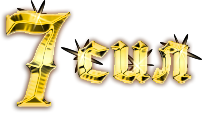
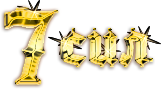
Доделка

Changed region(s): [[0.2795, 0.2921, 1.0, 0.7865], [0.0, 0.0, 0.3727, 0.9663]]

diff --git a/888/css/styles.min.css b/888/css/styles.min.css
@@ -1,2 +1,2 @@
-:-webkit-input-placeholder{color:#667;opacity:1}:-moz-placeholder{color:#667;opacity:1}::-moz-placeholder{color:#667;opacity:1}:-ms-input-placeholder{color:#667;opacity:1}html{overflow:hidden}body{font-family:Arial}.btn{width:320px;max-width:90%;height:68px;text-transform:uppercase;border:none;background:0 0}.main-screen{background-image:url(img/main_bg.jpg);height:100vh;display:flex;align-items:center;justify-content:center}.kart{width:1057px;height:840px;margin:0 auto;padding-top:85px;background-position:center center;background-image:url(img/bg.png)}.row{display:flex;align-items:center;justify-content:space-between;padding:2px 0}.ger{background-image:url(img/ger.png);background-position:88px 0;width:89px;height:152px}.ger:hover{background-position:-9px 1px;cursor:pointer}.ger_deg{-webkit-transform:rotate(-45deg);transform:rotate(-45deg)}.ru{background-image:url(img/ru.png);background-position:188px 0;width:193px;height:144px}.ru:hover{background-position:-9px 1px;cursor:pointer}.yap{background-image:url(img/yap.png);background-position:137px 0;width:139px;height:156px}.yap:hover{background-position:-11px 1px;cursor:pointer}.yap_deg{-webkit-transform:rotate(45deg);transform:rotate(45deg)}.por{background-image:url(img/por.png);background-position:111px 0;width:118px;height:184px}.por:hover{background-position:-10px 0;cursor:pointer}.por_deg{-webkit-transform:rotate(-90deg);transform:rotate(-90deg)}.chi{background-image:url(img/chi.png);background-position:169px 0;width:180px;height:143px}.chi:hover{background-position:-13px -1px;cursor:pointer}.chi_deg{-webkit-transform:rotate(90deg);transform:rotate(90deg)}.iz{background-image:url(img/iz.png);background-position:117px 0;width:118px;height:158px}.iz:hover{background-position:-17px 0;cursor:pointer}.iz_deg{-webkit-transform:rotate(-135deg);transform:rotate(-135deg)}.ben{background-image:url(img/ben.png);background-position:134px 0;width:140px;height:138px}.ben:hover{background-position:-11px 1px;cursor:pointer}.ben_deg{-webkit-transform:rotate(180deg);transform:rotate(180deg)}.tay{background-image:url(img/tay.png);background-position:117px 0;width:126px;height:173px}.tay:hover{background-position:-8px 1px;cursor:pointer}.tay_deg{-webkit-transform:rotate(135deg);transform:rotate(135deg)}.compas{width:193px;height:192px;display:flex;align-items:center;justify-content:center;background-repeat:no-repeat;background-image:url(img/compas.png)}.strel{transition:all .5s}.modal{top:50%;margin-top:-190px;position:fixed;width:640px;height:380px;left:50%;margin-left:-300px;background-color:#fff;border-radius:5px;padding:30px;display:none;z-index:999}.modal h2{text-align:center}.modal-thank{top:50%;margin-top:-190px;position:fixed;width:640px;height:380px;left:50%;margin-left:-300px;background-color:#fff;border-radius:5px;padding:10px;display:none;z-index:999}.modal-thank h2{text-align:center}.modal-wisible{display:block;-webkit-animation:animate .5s;animation:animate .5s}.overlay{z-index:10;position:fixed;background-color:#000;opacity:.8;width:100%;height:100%;top:0;left:0;cursor:pointer;display:none}.close-link{z-index:2;display:block;width:26px;height:26px;background:#fff;border-radius:50%;box-shadow:1px 1px 10px rgba(0,0,0,.4);position:absolute;top:4px;right:4px;padding:0 0 0 9px;font-size:18px;text-decoration:none;cursor:pointer}.close-link:hover{text-decoration:none}@-webkit-keyframes animate{0%{-webkit-transform:translateY(-2000px);transform:translateY(-2000px)}70%{-webkit-transform:translateY(30px);transform:translateY(30px)}90%{-webkit-transform:translateY(-10px);transform:translateY(-10px)}100%{-webkit-transform:translateY(0);transform:translateY(0)}}@keyframes animate{0%{-webkit-transform:translateY(-2000px);transform:translateY(-2000px)}70%{-webkit-transform:translateY(30px);transform:translateY(30px)}90%{-webkit-transform:translateY(-10px);transform:translateY(-10px)}100%{-webkit-transform:translateY(0);transform:translateY(0)}}
+:-webkit-input-placeholder{color:#667;opacity:1}:-moz-placeholder{color:#667;opacity:1}::-moz-placeholder{color:#667;opacity:1}:-ms-input-placeholder{color:#667;opacity:1}html{overflow:hidden}body{font-family:Arial}.btn{width:320px;max-width:90%;height:68px;text-transform:uppercase;border:none;background:0 0}.main-screen{background-image:url(img/main_bg.jpg);display:flex;align-items:center;justify-content:center}.kart{width:868px;height:700px;margin:0 auto;padding-top:44px;background-position:center center;background-image:url(img/bg.png)}.row{display:flex;align-items:center;justify-content:center}.row div{margin:0 15px}.six{margin-bottom:-22px}.ger{background-image:url(img/ger.png);background-repeat:no-repeat;background-position:center;width:113px;height:166px}.ger:hover{cursor:pointer;background-image:url(img/ger-.png);background-position:4px 1px}.ger_deg{-webkit-transform:rotate(-45deg);transform:rotate(-45deg)}.ru{background-image:url(img/ru.png);background-repeat:no-repeat;background-position:center;width:224px;height:157px}.ru:hover{cursor:pointer;background-image:url(img/ru-.png)}.yap{background-image:url(img/yap.png);background-repeat:no-repeat;background-position:center;width:171px;height:175px}.yap:hover{cursor:pointer;background-image:url(img/yap-.png)}.yap_deg{-webkit-transform:rotate(45deg);transform:rotate(45deg)}.por{background-image:url(img/por.png);background-repeat:no-repeat;background-position:center;width:139px;height:193px}.por:hover{cursor:pointer;background-image:url(img/por-.png)}.por_deg{-webkit-transform:rotate(-90deg);transform:rotate(-90deg)}.chi{background-image:url(img/chi.png);background-repeat:no-repeat;background-position:center;width:205px;height:168px}.chi:hover{cursor:pointer;background-image:url(img/chi-.png)}.chi_deg{-webkit-transform:rotate(90deg);transform:rotate(90deg)}.iz{background-image:url(img/iz.png);background-repeat:no-repeat;background-position:center;width:155px;height:175px}.iz:hover{cursor:pointer;background-image:url(img/iz-.png)}.iz_deg{-webkit-transform:rotate(-135deg);transform:rotate(-135deg)}.ben{background-image:url(img/ben.png);background-repeat:no-repeat;background-position:center;width:169px;height:159px}.ben:hover{cursor:pointer;background-image:url(img/ben-.png)}.ben_deg{-webkit-transform:rotate(180deg);transform:rotate(180deg)}.tay{background-image:url(img/tay.png);background-repeat:no-repeat;background-position:center;width:148px;height:198px}.tay:hover{cursor:pointer;background-image:url(img/tay-.png)}.tay_deg{-webkit-transform:rotate(135deg);transform:rotate(135deg)}.compas{width:150px;height:153px;display:flex;align-items:center;justify-content:center;background-repeat:no-repeat;background-image:url(img/compas.png)}.compas img{margin:0 0 0 12px}.strel{transition:all .5s}.modal{top:50%;margin-top:-190px;position:fixed;width:640px;height:380px;left:50%;margin-left:-300px;background-color:#fff;border-radius:5px;padding:30px;display:none;z-index:999}.modal h2{text-align:center}.modal-thank{top:50%;margin-top:-190px;position:fixed;width:640px;height:380px;left:50%;margin-left:-300px;background-color:#fff;border-radius:5px;padding:10px;display:none;z-index:999}.modal-thank h2{text-align:center}.modal-wisible{display:block;-webkit-animation:animate .5s;animation:animate .5s}.overlay{z-index:10;position:fixed;background-color:#000;opacity:.8;width:100%;height:100%;top:0;left:0;cursor:pointer;display:none}.close-link{z-index:2;display:block;width:26px;height:26px;background:#fff;border-radius:50%;box-shadow:1px 1px 10px rgba(0,0,0,.4);position:absolute;top:4px;right:4px;padding:0 0 0 9px;font-size:18px;text-decoration:none;cursor:pointer}.close-link:hover{text-decoration:none}@-webkit-keyframes animate{0%{-webkit-transform:translateY(-2000px);transform:translateY(-2000px)}70%{-webkit-transform:translateY(30px);transform:translateY(30px)}90%{-webkit-transform:translateY(-10px);transform:translateY(-10px)}100%{-webkit-transform:translateY(0);transform:translateY(0)}}@keyframes animate{0%{-webkit-transform:translateY(-2000px);transform:translateY(-2000px)}70%{-webkit-transform:translateY(30px);transform:translateY(30px)}90%{-webkit-transform:translateY(-10px);transform:translateY(-10px)}100%{-webkit-transform:translateY(0);transform:translateY(0)}}
 @media only screen and (max-width:768px){.animated{transition-property:none!important;-webkit-transform:none!important;transform:none!important;-webkit-animation:none!important;animation:none!important}.modal-callbak{margin-top:-155px;width:470px;height:310px;margin-left:-235px}.modal-thank{margin-top:-140px;width:316px;height:280px;margin-left:-158px;padding:5px}}@media only screen and (max-width:480px){.modal-callbak{margin-top:-160px;width:320px;height:320px;margin-left:-160px}.modal-thank{margin-top:-160px;width:320px;height:320px;margin-left:-160px}}

diff --git a/888/less/main.less b/888/less/main.less
@@ -44,17 +44,16 @@ header {}
 // Главный экран
 .main-screen {
   background-image: url(img/main_bg.jpg);
-  height: 100vh;
   display: flex;
   align-items: center;
   justify-content: center;
 }
 
 .kart {
-  width: 1057px;
-  height: 840px;
+  width: 868px;
+  height: 700px;
   margin: 0 auto;
-  padding-top: 85px;
+  padding-top: 44px;
   background-position: center center;
   background-image: url(img/bg.png);
 }
@@ -62,18 +61,26 @@ header {}
 .row {
   display: flex;
   align-items: center;
-  justify-content: space-between;
-  padding: 2px 0;
+  justify-content: center;
+  div {
+    margin: 0px 15px;
+  }
+}
+
+.six {
+  margin-bottom: -22px;
 }
 
 .ger {
   background-image: url(img/ger.png);
-  background-position: 88px 0;
-    width: 89px;
-    height: 152px;
+  background-repeat: no-repeat;
+  background-position: center;
+  width: 113px;
+  height: 166px;
   &:hover {
-    background-position: -9px 1px;
     cursor: pointer;
+    background-image: url(img/ger-.png);
+    background-position: 4px 1px;
   }
 }
 .ger_deg {
@@ -82,23 +89,25 @@ header {}
 
 .ru {
   background-image: url(img/ru.png);
-  background-position: 188px 0;
-    width: 193px;
-    height: 144px;
+  background-repeat: no-repeat;
+  background-position: center;
+  width: 224px;
+  height: 157px;
   &:hover {
-    background-position: -9px 1px;
     cursor: pointer;
+    background-image: url(img/ru-.png);
   }
 }
 
 .yap {
   background-image: url(img/yap.png);
-  background-position: 137px 0;
-    width: 139px;
-    height: 156px;
+  background-repeat: no-repeat;
+  background-position: center;
+  width: 171px;
+  height: 175px;
   &:hover {
-    background-position: -11px 1px;
     cursor: pointer;
+    background-image: url(img/yap-.png);
   }
 }
 .yap_deg {
@@ -107,12 +116,13 @@ header {}
 
 .por {
   background-image: url(img/por.png);
-  background-position: 111px 0;
-    width: 118px;
-    height: 184px;
+  background-repeat: no-repeat;
+  background-position: center;
+  width: 139px;
+  height: 193px;
   &:hover {
-    background-position: -10px 0px;
     cursor: pointer;
+    background-image: url(img/por-.png);
   }
 }
 .por_deg {
@@ -121,12 +131,13 @@ header {}
 
 .chi {
   background-image: url(img/chi.png);
-  background-position: 169px 0;
-    width: 180px;
-    height: 143px;
+  background-repeat: no-repeat;
+  background-position: center;
+  width: 205px;
+  height: 168px;
   &:hover {
-    background-position: -13px -1px;
     cursor: pointer;
+    background-image: url(img/chi-.png);
   }
 }
 .chi_deg {
@@ -135,13 +146,13 @@ header {}
 
 .iz {
   background-image: url(img/iz.png);
-      background-position: 117px 0;
-    width: 118px;
-    height: 158px;
-
+  background-repeat: no-repeat;
+  background-position: center;
+  width: 155px;
+  height: 175px;
   &:hover {
-    background-position: -17px 0px;
     cursor: pointer;
+    background-image: url(img/iz-.png);
   }
 }
 .iz_deg {
@@ -150,12 +161,13 @@ header {}
 
 .ben {
   background-image: url(img/ben.png);
-  background-position: 134px 0;
-    width: 140px;
-    height: 138px;
+  background-repeat: no-repeat;
+  background-position: center;
+  width: 169px;
+  height: 159px;
   &:hover {
-    background-position: -11px 1px;
     cursor: pointer;
+    background-image: url(img/ben-.png);
   }
 }
 .ben_deg {
@@ -164,12 +176,13 @@ header {}
 
 .tay {
   background-image: url(img/tay.png);
-  background-position: 117px 0;
-    width: 126px;
-    height: 173px;
+  background-repeat: no-repeat;
+  background-position: center;
+  width: 148px;
+  height: 198px;
   &:hover {
-    background-position: -8px 1px;
     cursor: pointer;
+    background-image: url(img/tay-.png);
   }
 }
 .tay_deg {
@@ -177,13 +190,16 @@ header {}
 }
 
 .compas {
-  width: 193px;
-  height: 192px;
+  width: 150px;
+  height: 153px;
   display: flex;
   align-items: center;
   justify-content: center;
   background-repeat: no-repeat;
   background-image: url(img/compas.png);
+  img {
+    margin: 0 0 0 12px;
+  }
 }
 
 .strel {

diff --git a/888/index.html b/888/index.html
@@ -28,7 +28,7 @@
 	<div class="container">
 		<div class="kart">
 			<div class="row">
-				<img src="img/7.png" alt="">
+				<img src="img/7.png" alt="" class="six">
 			</div>
 			<div class="row">
 				<div class="ger"></div>
